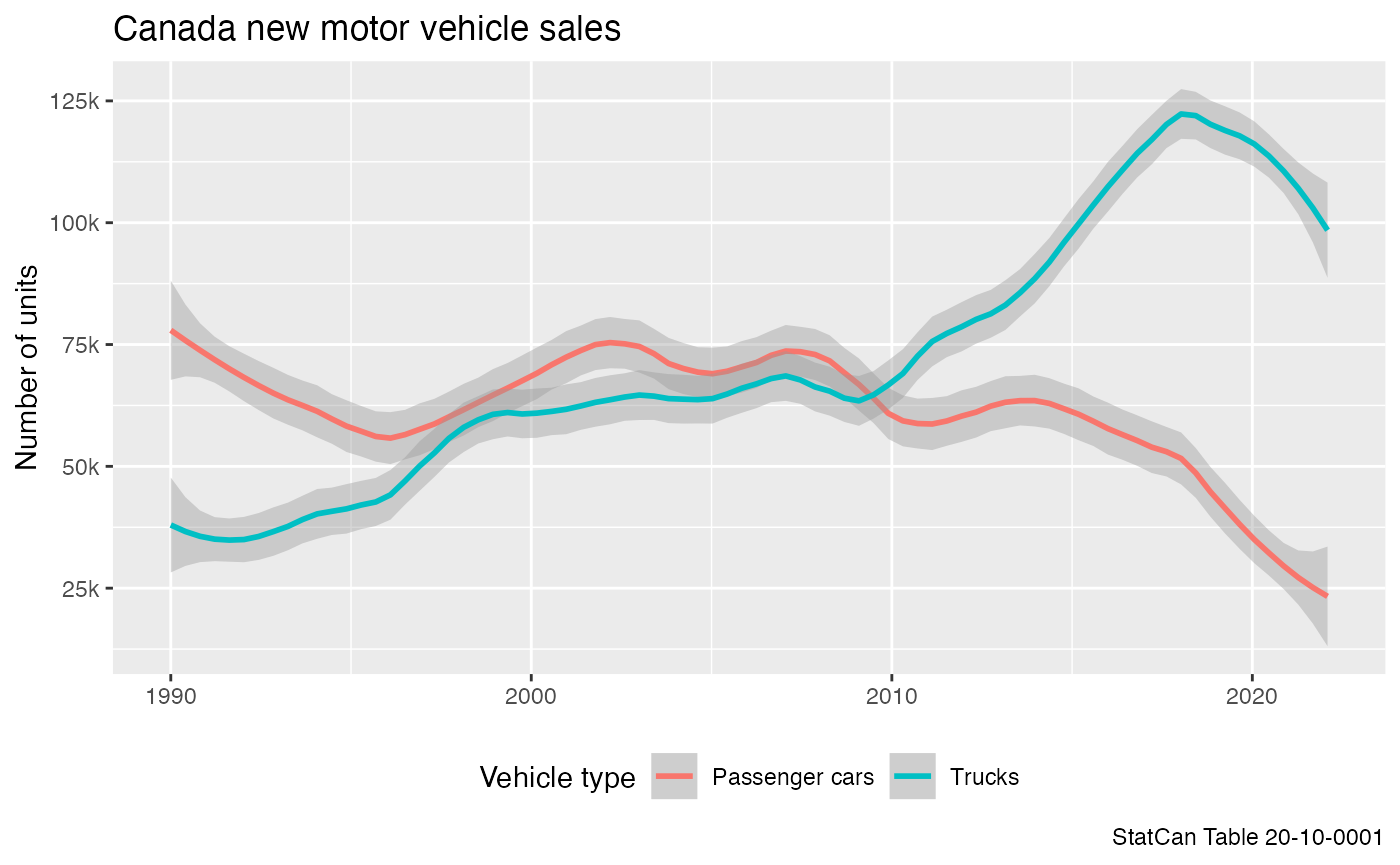
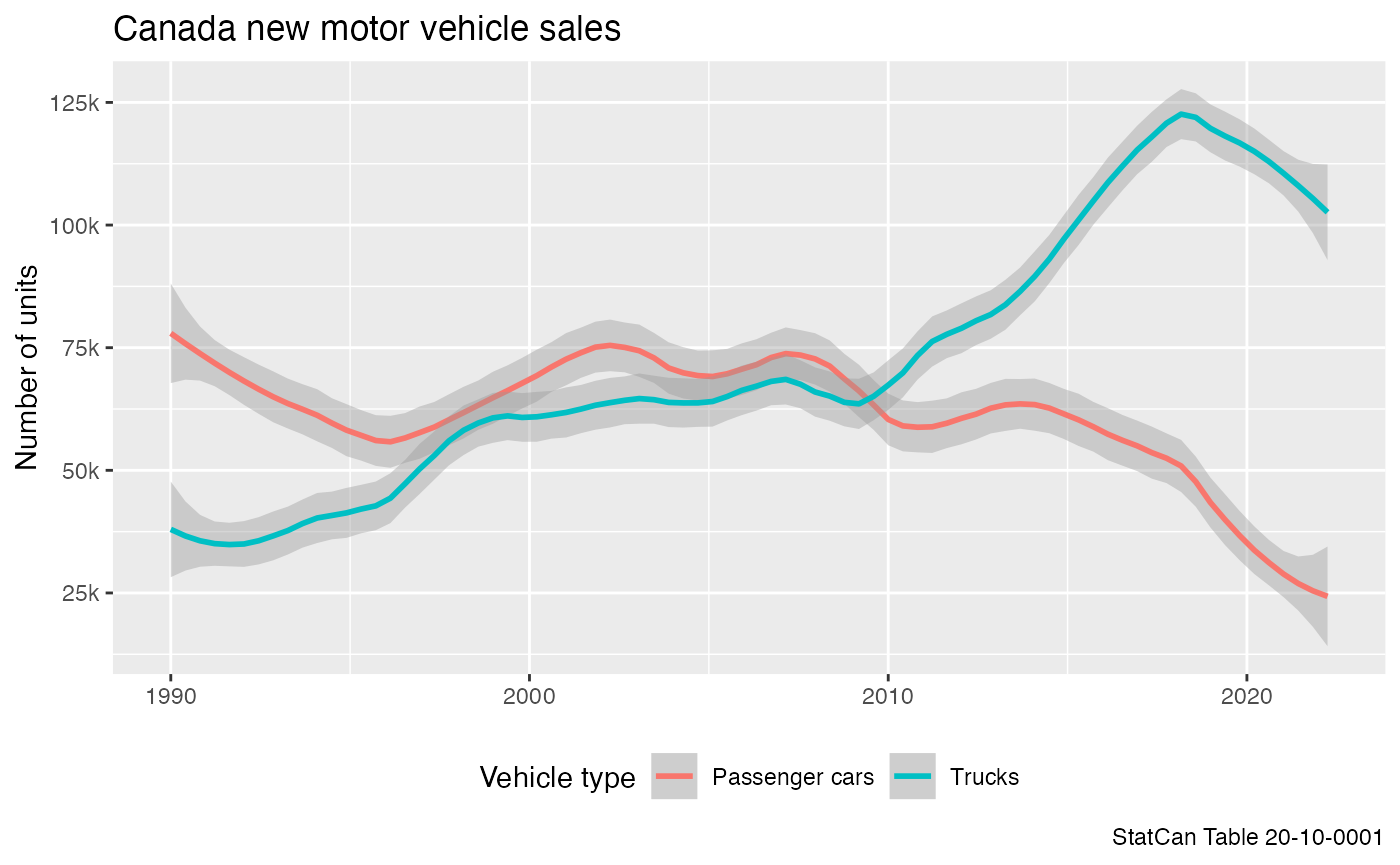
try to fix windows issue

diff --git a/docs/articles/retrieving_cansim_vectors.html b/docs/articles/retrieving_cansim_vectors.html
@@ -152,7 +152,7 @@
 vectors</h1>
                         <h4 data-toc-skip class="author"></h4>
             
-            <h4 data-toc-skip class="date">2022-05-05</h4>
+            <h4 data-toc-skip class="date">2022-07-12</h4>
       
       <small class="dont-index">Source: <a href="https://github.com/mountainMath/cansim/blob/HEAD/vignettes/retrieving_cansim_vectors.Rmd" class="external-link"><code>vignettes/retrieving_cansim_vectors.Rmd</code></a></small>
       <div class="hidden name"><code>retrieving_cansim_vectors.Rmd</code></div>
@@ -189,7 +189,7 @@ and the date onwards from which we want to get vector results for.</p>
 <div class="sourceCode" id="cb1"><pre class="downlit sourceCode r">
 <code class="sourceCode R"><span class="fu"><a href="../reference/get_cansim_vector.html">get_cansim_vector</a></span><span class="op">(</span><span class="st">"v41690973"</span>,<span class="st">"2015-01-01"</span><span class="op">)</span>
 <span class="co">#&gt; Accessing CANSIM NDM vectors from Statistics Canada</span>
-<span class="co">#&gt; <span style="color: #949494;"># A tibble: 87 × 11</span></span>
+<span class="co">#&gt; <span style="color: #949494;"># A tibble: 89 × 11</span></span>
 <span class="co">#&gt;    DECIMALS VALUE REF_DATE releaseTime SYMBOL frequencyCode SCALAR_ID COORDINATE</span>
 <span class="co">#&gt;       <span style="color: #949494; font-style: italic;">&lt;int&gt;</span> <span style="color: #949494; font-style: italic;">&lt;dbl&gt;</span> <span style="color: #949494; font-style: italic;">&lt;chr&gt;</span>    <span style="color: #949494; font-style: italic;">&lt;chr&gt;</span>        <span style="color: #949494; font-style: italic;">&lt;int&gt;</span>         <span style="color: #949494; font-style: italic;">&lt;int&gt;</span>     <span style="color: #949494; font-style: italic;">&lt;int&gt;</span> <span style="color: #949494; font-style: italic;">&lt;chr&gt;</span>     </span>
 <span class="co">#&gt; <span style="color: #BCBCBC;"> 1</span>        1  124. 2015-01… 2021-07-28…      0             6         0 2.2.0.0.0…</span>
@@ -202,7 +202,7 @@ and the date onwards from which we want to get vector results for.</p>
 <span class="co">#&gt; <span style="color: #BCBCBC;"> 8</span>        1  127. 2015-08… 2021-07-28…      0             6         0 2.2.0.0.0…</span>
 <span class="co">#&gt; <span style="color: #BCBCBC;"> 9</span>        1  127. 2015-09… 2021-07-28…      0             6         0 2.2.0.0.0…</span>
 <span class="co">#&gt; <span style="color: #BCBCBC;">10</span>        1  127. 2015-10… 2021-07-28…      0             6         0 2.2.0.0.0…</span>
-<span class="co">#&gt; <span style="color: #949494;"># … with 77 more rows, and 3 more variables: VECTOR &lt;chr&gt;, val_norm &lt;dbl&gt;,</span></span>
+<span class="co">#&gt; <span style="color: #949494;"># … with 79 more rows, and 3 more variables: VECTOR &lt;chr&gt;, val_norm &lt;dbl&gt;,</span></span>
 <span class="co">#&gt; <span style="color: #949494;">#   Date &lt;date&gt;</span></span></code></pre></div>
 <p>The call to <code>get_cansim_vector</code> takes three inputs: a
 string code (or codes) for <code>vectors</code>, a
@@ -228,7 +228,7 @@ always dated to the first day of the month.</p>
 
 <span class="fu"><a href="../reference/get_cansim_vector.html">get_cansim_vector</a></span><span class="op">(</span><span class="va">vectors</span>, <span class="st">"2017-01-01"</span><span class="op">)</span>
 <span class="co">#&gt; Accessing CANSIM NDM vectors from Statistics Canada</span>
-<span class="co">#&gt; <span style="color: #949494;"># A tibble: 126 × 11</span></span>
+<span class="co">#&gt; <span style="color: #949494;"># A tibble: 130 × 11</span></span>
 <span class="co">#&gt;    DECIMALS VALUE REF_DATE releaseTime SYMBOL frequencyCode SCALAR_ID COORDINATE</span>
 <span class="co">#&gt;       <span style="color: #949494; font-style: italic;">&lt;int&gt;</span> <span style="color: #949494; font-style: italic;">&lt;dbl&gt;</span> <span style="color: #949494; font-style: italic;">&lt;chr&gt;</span>    <span style="color: #949494; font-style: italic;">&lt;chr&gt;</span>        <span style="color: #949494; font-style: italic;">&lt;int&gt;</span>         <span style="color: #949494; font-style: italic;">&lt;int&gt;</span>     <span style="color: #949494; font-style: italic;">&lt;int&gt;</span> <span style="color: #949494; font-style: italic;">&lt;chr&gt;</span>     </span>
 <span class="co">#&gt; <span style="color: #BCBCBC;"> 1</span>        1  130. 2017-01… 2021-07-28…      0             6         0 2.2.0.0.0…</span>
@@ -241,7 +241,7 @@ always dated to the first day of the month.</p>
 <span class="co">#&gt; <span style="color: #BCBCBC;"> 8</span>        1  130. 2017-08… 2021-07-28…      0             6         0 2.2.0.0.0…</span>
 <span class="co">#&gt; <span style="color: #BCBCBC;"> 9</span>        1  131. 2017-09… 2021-07-28…      0             6         0 2.2.0.0.0…</span>
 <span class="co">#&gt; <span style="color: #BCBCBC;">10</span>        1  131. 2017-10… 2021-07-28…      0             6         0 2.2.0.0.0…</span>
-<span class="co">#&gt; <span style="color: #949494;"># … with 116 more rows, and 3 more variables: VECTOR &lt;chr&gt;, val_norm &lt;dbl&gt;,</span></span>
+<span class="co">#&gt; <span style="color: #949494;"># … with 120 more rows, and 3 more variables: VECTOR &lt;chr&gt;, val_norm &lt;dbl&gt;,</span></span>
 <span class="co">#&gt; <span style="color: #949494;">#   Date &lt;date&gt;</span></span></code></pre></div>
 </div>
 <div class="section level3">
@@ -261,16 +261,16 @@ irrespective of dates.</p>
 <span class="co">#&gt; <span style="color: #949494;"># A tibble: 60 × 11</span></span>
 <span class="co">#&gt;    DECIMALS VALUE REF_DATE releaseTime SYMBOL frequencyCode SCALAR_ID COORDINATE</span>
 <span class="co">#&gt;       <span style="color: #949494; font-style: italic;">&lt;int&gt;</span> <span style="color: #949494; font-style: italic;">&lt;dbl&gt;</span> <span style="color: #949494; font-style: italic;">&lt;chr&gt;</span>    <span style="color: #949494; font-style: italic;">&lt;chr&gt;</span>        <span style="color: #949494; font-style: italic;">&lt;int&gt;</span>         <span style="color: #949494; font-style: italic;">&lt;int&gt;</span>     <span style="color: #949494; font-style: italic;">&lt;int&gt;</span> <span style="color: #949494; font-style: italic;">&lt;chr&gt;</span>     </span>
-<span class="co">#&gt; <span style="color: #BCBCBC;"> 1</span>        1  130. 2017-04… 2021-07-28…      0             6         0 2.2.0.0.0…</span>
-<span class="co">#&gt; <span style="color: #BCBCBC;"> 2</span>        1  130. 2017-05… 2021-07-28…      0             6         0 2.2.0.0.0…</span>
-<span class="co">#&gt; <span style="color: #BCBCBC;"> 3</span>        1  130. 2017-06… 2021-07-28…      0             6         0 2.2.0.0.0…</span>
-<span class="co">#&gt; <span style="color: #BCBCBC;"> 4</span>        1  130. 2017-07… 2021-07-28…      0             6         0 2.2.0.0.0…</span>
-<span class="co">#&gt; <span style="color: #BCBCBC;"> 5</span>        1  130. 2017-08… 2021-07-28…      0             6         0 2.2.0.0.0…</span>
-<span class="co">#&gt; <span style="color: #BCBCBC;"> 6</span>        1  131. 2017-09… 2021-07-28…      0             6         0 2.2.0.0.0…</span>
-<span class="co">#&gt; <span style="color: #BCBCBC;"> 7</span>        1  131. 2017-10… 2021-07-28…      0             6         0 2.2.0.0.0…</span>
-<span class="co">#&gt; <span style="color: #BCBCBC;"> 8</span>        1  131. 2017-11… 2021-07-28…      0             6         0 2.2.0.0.0…</span>
-<span class="co">#&gt; <span style="color: #BCBCBC;"> 9</span>        1  131. 2017-12… 2021-07-28…      0             6         0 2.2.0.0.0…</span>
-<span class="co">#&gt; <span style="color: #BCBCBC;">10</span>        1  132. 2018-01… 2021-07-28…      0             6         0 2.2.0.0.0…</span>
+<span class="co">#&gt; <span style="color: #BCBCBC;"> 1</span>        1  130. 2017-06… 2021-07-28…      0             6         0 2.2.0.0.0…</span>
+<span class="co">#&gt; <span style="color: #BCBCBC;"> 2</span>        1  130. 2017-07… 2021-07-28…      0             6         0 2.2.0.0.0…</span>
+<span class="co">#&gt; <span style="color: #BCBCBC;"> 3</span>        1  130. 2017-08… 2021-07-28…      0             6         0 2.2.0.0.0…</span>
+<span class="co">#&gt; <span style="color: #BCBCBC;"> 4</span>        1  131. 2017-09… 2021-07-28…      0             6         0 2.2.0.0.0…</span>
+<span class="co">#&gt; <span style="color: #BCBCBC;"> 5</span>        1  131. 2017-10… 2021-07-28…      0             6         0 2.2.0.0.0…</span>
+<span class="co">#&gt; <span style="color: #BCBCBC;"> 6</span>        1  131. 2017-11… 2021-07-28…      0             6         0 2.2.0.0.0…</span>
+<span class="co">#&gt; <span style="color: #BCBCBC;"> 7</span>        1  131. 2017-12… 2021-07-28…      0             6         0 2.2.0.0.0…</span>
+<span class="co">#&gt; <span style="color: #BCBCBC;"> 8</span>        1  132. 2018-01… 2021-07-28…      0             6         0 2.2.0.0.0…</span>
+<span class="co">#&gt; <span style="color: #BCBCBC;"> 9</span>        1  132. 2018-02… 2021-07-28…      0             6         0 2.2.0.0.0…</span>
+<span class="co">#&gt; <span style="color: #BCBCBC;">10</span>        1  133. 2018-03… 2021-07-28…      0             6         0 2.2.0.0.0…</span>
 <span class="co">#&gt; <span style="color: #949494;"># … with 50 more rows, and 3 more variables: VECTOR &lt;chr&gt;, val_norm &lt;dbl&gt;,</span></span>
 <span class="co">#&gt; <span style="color: #949494;">#   Date &lt;date&gt;</span></span></code></pre></div>
 </div>

diff --git a/docs/articles/working_with_large_tables.html b/docs/articles/working_with_large_tables.html
@@ -151,7 +151,7 @@
       <h1 data-toc-skip>Working with large tables</h1>
                         <h4 data-toc-skip class="author"></h4>
             
-            <h4 data-toc-skip class="date">2022-05-05</h4>
+            <h4 data-toc-skip class="date">2022-07-12</h4>
       
       <small class="dont-index">Source: <a href="https://github.com/mountainMath/cansim/blob/HEAD/vignettes/working_with_large_tables.Rmd" class="external-link"><code>vignettes/working_with_large_tables.Rmd</code></a></small>
       <div class="hidden name"><code>working_with_large_tables.Rmd</code></div>
@@ -213,7 +213,7 @@ general idea of what the data looks like.</p>
 <code class="sourceCode R"><span class="fu"><a href="https://rdrr.io/r/utils/head.html" class="external-link">head</a></span><span class="op">(</span><span class="va">connection</span><span class="op">)</span>
 <span class="co">#&gt; <span style="color: #949494;"># Source:   lazy query [?? x 19]</span></span>
 <span class="co">#&gt; <span style="color: #949494;"># Database: sqlite 3.38.2</span></span>
-<span class="co"><span style="color: #949494;">#&gt; #   [/private/var/folders/z4/gcjq2cd93p3bs5bgp8j2vv240000gp/T/RtmpXPA2QT/cansim_20100001_eng/20100001-eng.sqlite]</span></span>
+<span class="co"><span style="color: #949494;">#&gt; #   [/private/var/folders/z4/gcjq2cd93p3bs5bgp8j2vv240000gp/T/RtmpJ64Q0S/cansim_20100001_eng/20100001-eng.sqlite]</span></span>
 <span class="co">#&gt;   REF_DATE GEO    DGUID   `Vehicle type` `Origin of man…` Sales `Seasonal adju…`</span>
 <span class="co">#&gt;   <span style="color: #949494; font-style: italic;">&lt;chr&gt;</span>    <span style="color: #949494; font-style: italic;">&lt;chr&gt;</span>  <span style="color: #949494; font-style: italic;">&lt;chr&gt;</span>   <span style="color: #949494; font-style: italic;">&lt;chr&gt;</span>          <span style="color: #949494; font-style: italic;">&lt;chr&gt;</span>            <span style="color: #949494; font-style: italic;">&lt;chr&gt;</span> <span style="color: #949494; font-style: italic;">&lt;chr&gt;</span>           </span>
 <span class="co">#&gt; <span style="color: #BCBCBC;">1</span> 1946-01  Canada 2016A0… Total, new mo… Total, country … Units Unadjusted      </span>
@@ -236,7 +236,7 @@ the <code>get_cansim</code> call, which the
 <code class="sourceCode R"><span class="fu"><a href="../reference/get_cansim_table_overview.html">get_cansim_table_overview</a></span><span class="op">(</span><span class="st">"20-10-0001"</span><span class="op">)</span>
 <span class="co">#&gt; New motor vehicle sales</span>
 <span class="co">#&gt; CANSIM Table 20-10-0001</span>
-<span class="co">#&gt; Start Reference Period: 1946-01-01, End Reference Period: 2022-02-01, Frequency: Monthly</span>
+<span class="co">#&gt; Start Reference Period: 1946-01-01, End Reference Period: 2022-04-01, Frequency: Monthly</span>
 <span class="co">#&gt; </span>
 <span class="co">#&gt; Column Geography (11)</span>
 <span class="co">#&gt; Newfoundland and Labrador, Prince Edward Island, Nova Scotia, New Brunswick, Quebec, Ontario, Manitoba, Saskatchewan, Alberta, British Columbia and the Territories, ...</span>
@@ -317,7 +317,7 @@ overview over the cached data we have.</p>
 <span class="co">#&gt; <span style="color: #949494;"># A tibble: 1 × 8</span></span>
 <span class="co">#&gt;   cansimTableNumber language timeCached          sqliteSize title          path </span>
 <span class="co">#&gt;   <span style="color: #949494; font-style: italic;">&lt;chr&gt;</span>             <span style="color: #949494; font-style: italic;">&lt;chr&gt;</span>    <span style="color: #949494; font-style: italic;">&lt;dttm&gt;</span>              <span style="color: #949494; font-style: italic;">&lt;chr&gt;</span>      <span style="color: #949494; font-style: italic;">&lt;chr&gt;</span>          <span style="color: #949494; font-style: italic;">&lt;chr&gt;</span></span>
-<span class="co">#&gt; <span style="color: #BCBCBC;">1</span> 20-10-0001        eng      2022-05-05 <span style="color: #949494;">10:52:12</span> 44.8 Mb    New motor veh… cans…</span>
+<span class="co">#&gt; <span style="color: #BCBCBC;">1</span> 20-10-0001        eng      2022-07-12 <span style="color: #949494;">10:48:32</span> 45 Mb      New motor veh… cans…</span>
 <span class="co">#&gt; <span style="color: #949494;"># … with 2 more variables: timeReleased &lt;dttm&gt;, upToDate &lt;lgl&gt;</span></span></code></pre></div>
 <p>Cached data won’t update automatically, we will have to pass the
 <code>refresh=TRUE</code> option to refresh it manually when we want a

diff --git a/docs/articles/cansim.html b/docs/articles/cansim.html
@@ -150,7 +150,7 @@
       <h1 data-toc-skip>Getting started with the cansim package</h1>
                         <h4 data-toc-skip class="author"></h4>
             
-            <h4 data-toc-skip class="date">2022-05-05</h4>
+            <h4 data-toc-skip class="date">2022-07-12</h4>
       
       <small class="dont-index">Source: <a href="https://github.com/mountainMath/cansim/blob/HEAD/vignettes/cansim.Rmd" class="external-link"><code>vignettes/cansim.Rmd</code></a></small>
       <div class="hidden name"><code>cansim.Rmd</code></div>
@@ -241,10 +241,10 @@ first step. This is implemented in the package with the
 <span class="co">#&gt; Start Reference Period: 2001-03-01, End Reference Period: 2020-12-01, Frequency: Monthly</span>
 <span class="co">#&gt; </span>
 <span class="co">#&gt; Column Geography (76)</span>
-<span class="co">#&gt; Canada, Newfoundland and Labrador, Avalon Peninsula, Newfoundland and Labrador, South Coast-Burin Peninsula and Notre Dame-Central Bonavista Bay, Newfoundland and Labrador, West Coast-Northern Peninsula-Labrador, Newfoundland and Labrador, Prince Edward Island, Nova Scotia, Cape Breton, Nova Scotia, North Shore, Nova Scotia, Annapolis Valley, Nova Scotia, ...</span>
+<span class="co">#&gt; Newfoundland and Labrador, Prince Edward Island, Nova Scotia, New Brunswick, Quebec, Ontario, Manitoba, Saskatchewan, Alberta, British Columbia, ...</span>
 <span class="co">#&gt; </span>
 <span class="co">#&gt; Column Labour force characteristics (10)</span>
-<span class="co">#&gt; Population, Labour force, Employment, Full-time employment, Part-time employment, Unemployment, Not in labour force, Unemployment rate, Participation rate, Employment rate</span>
+<span class="co">#&gt; Labour force, Not in labour force, Employment, Unemployment, Full-time employment, Part-time employment, Population, Unemployment rate, Participation rate, Employment rate</span>
 <span class="co">#&gt; </span>
 <span class="co">#&gt; Column Statistics (3)</span>
 <span class="co">#&gt; Estimate, Standard error of estimate, Standard error of year-over-year change</span></code></pre></div>

diff --git a/docs/news/index.html b/docs/news/index.html
@@ -112,7 +112,7 @@
     </div>
 
     <div class="section level2">
-<h2 class="page-header" data-toc-text="0.3.11" id="cansim-0311">cansim 0.3.11<a class="anchor" aria-label="anchor" href="#cansim-0311"></a></h2>
+<h2 class="page-header" data-toc-text="0.3.11" id="cansim-0311">cansim 0.3.11<small>2022-05-10</small><a class="anchor" aria-label="anchor" href="#cansim-0311"></a></h2>
 <div class="section level3">
 <h3 id="major-changes-0-3-11">Major changes<a class="anchor" aria-label="anchor" href="#major-changes-0-3-11"></a></h3>
 <ul><li>Support for new semi-wide table format, e.g. Census data releases ## Minor changes</li>

diff --git a/docs/articles/listing_cansim_tables.html b/docs/articles/listing_cansim_tables.html
@@ -151,7 +151,7 @@
       <h1 data-toc-skip>Listing Statistics Canada data tables</h1>
                         <h4 data-toc-skip class="author"></h4>
             
-            <h4 data-toc-skip class="date">2022-05-05</h4>
+            <h4 data-toc-skip class="date">2022-07-12</h4>
       
       <small class="dont-index">Source: <a href="https://github.com/mountainMath/cansim/blob/HEAD/vignettes/listing_cansim_tables.Rmd" class="external-link"><code>vignettes/listing_cansim_tables.Rmd</code></a></small>
       <div class="hidden name"><code>listing_cansim_tables.Rmd</code></div>

diff --git a/docs/articles/working_with_hierarchies.html b/docs/articles/working_with_hierarchies.html
@@ -152,7 +152,7 @@
 hierarchies</h1>
                         <h4 data-toc-skip class="author"></h4>
             
-            <h4 data-toc-skip class="date">2022-05-05</h4>
+            <h4 data-toc-skip class="date">2022-07-12</h4>
       
       <small class="dont-index">Source: <a href="https://github.com/mountainMath/cansim/blob/HEAD/vignettes/working_with_hierarchies.Rmd" class="external-link"><code>vignettes/working_with_hierarchies.Rmd</code></a></small>
       <div class="hidden name"><code>working_with_hierarchies.Rmd</code></div>

diff --git a/cran-comments.md b/cran-comments.md
@@ -81,3 +81,9 @@ There were no ERRORs or WARNINGs or NOTEs.
 * Support for new semi-wide table format, e.g. Census data releases
 ## Minor changes
 * Improvement in offline handling of sqlite tables
+
+# Changes from version 0.3.11
+## Major changes
+* Fix bug that causes collect_and_normalize not to function on some operating systems
+
+

diff --git a/NEWS.md b/NEWS.md
@@ -1,3 +1,7 @@
+cansium 0.3.12
+## Major changes
+* Fix bug that causes collect_and_normalize not to function on some operating systems
+
 # cansim 0.3.11
 ## Major changes
 * Support for new semi-wide table format, e.g. Census data releases
